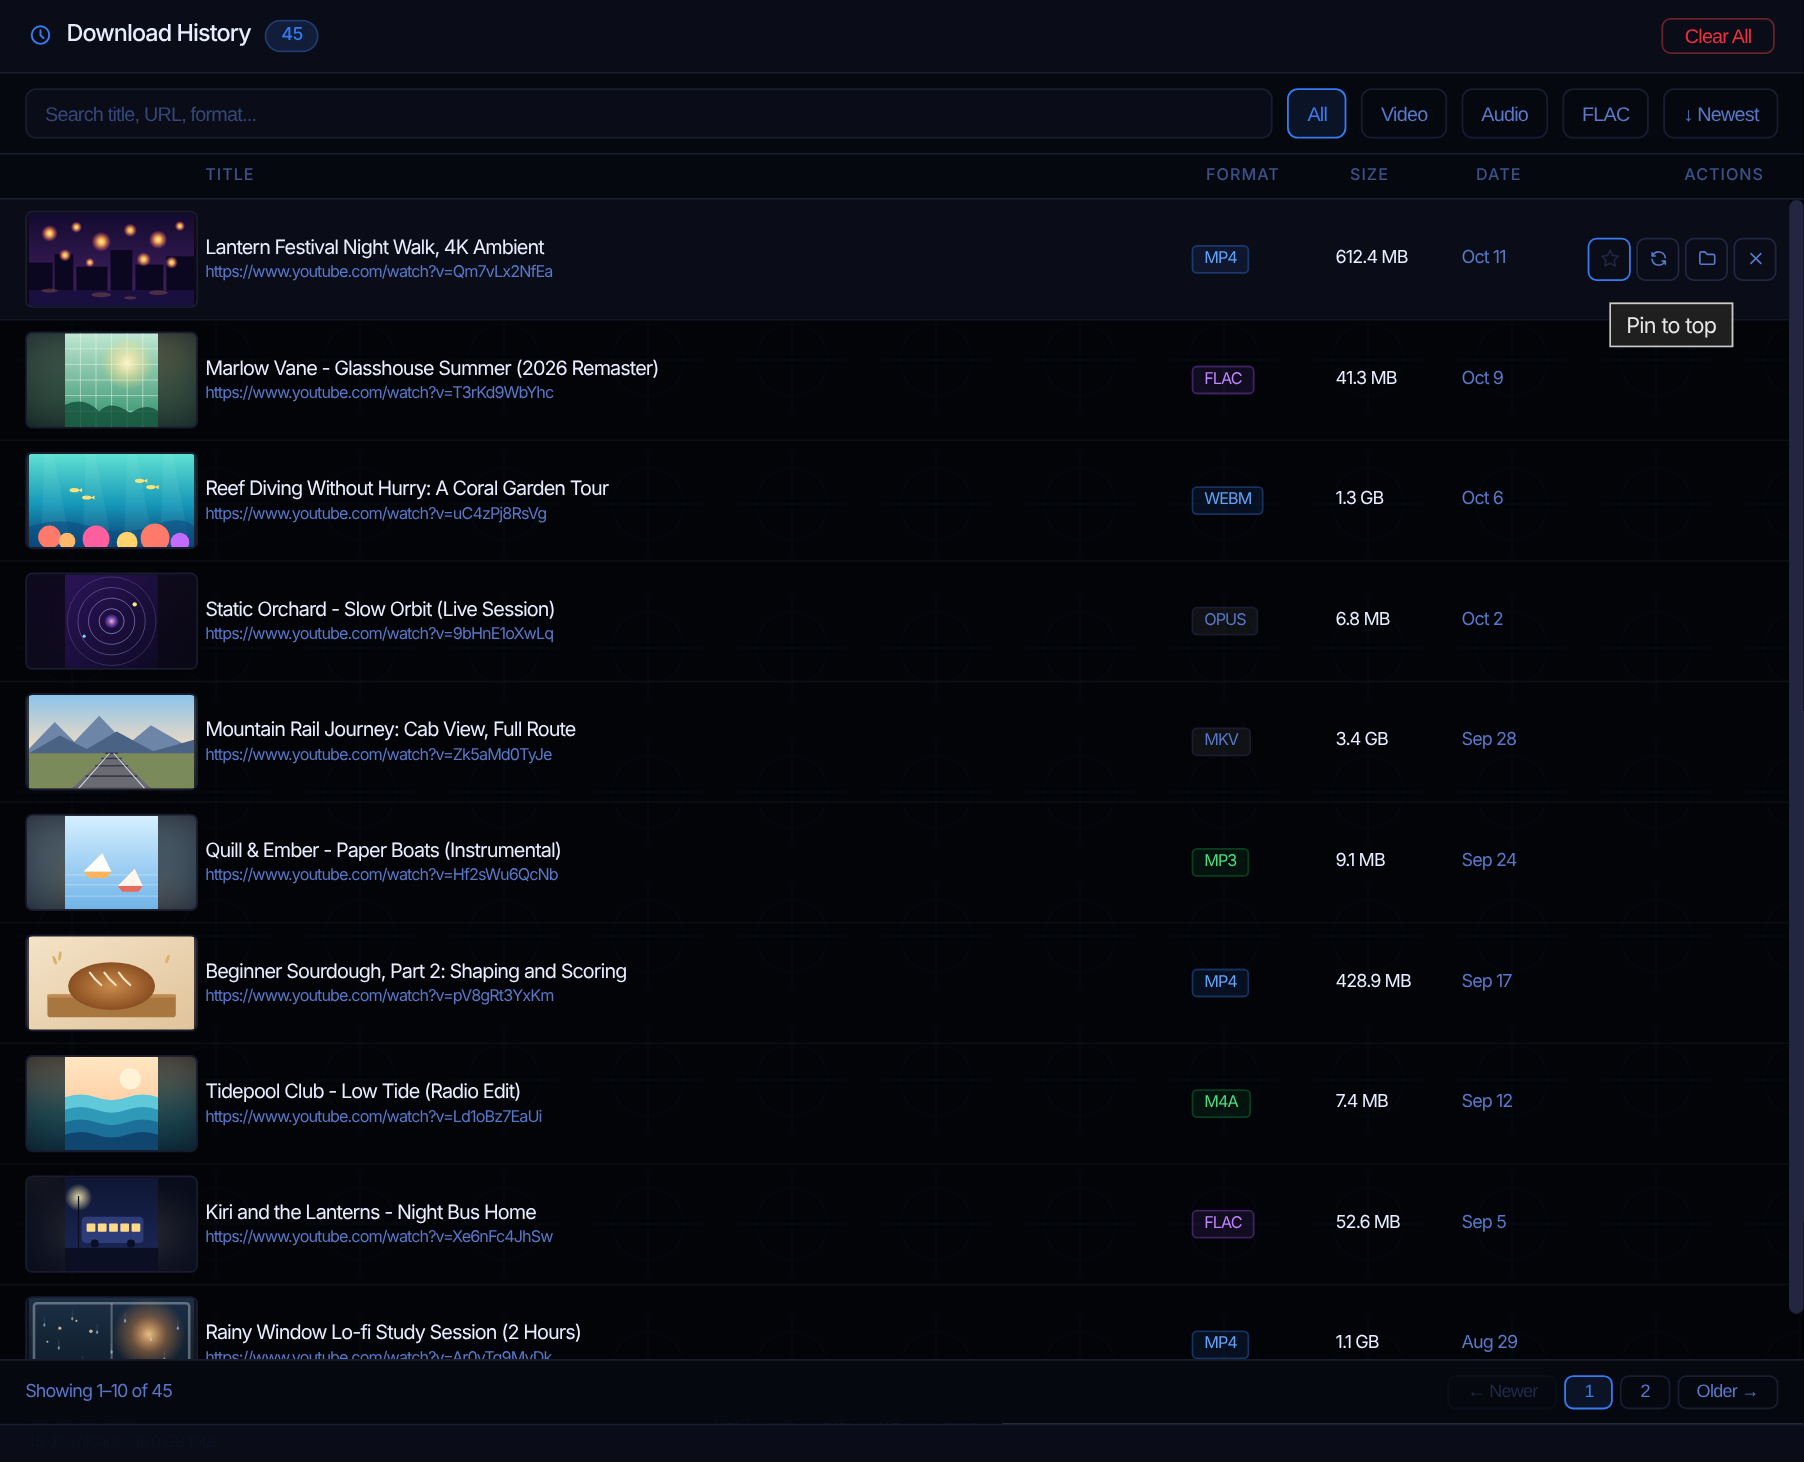
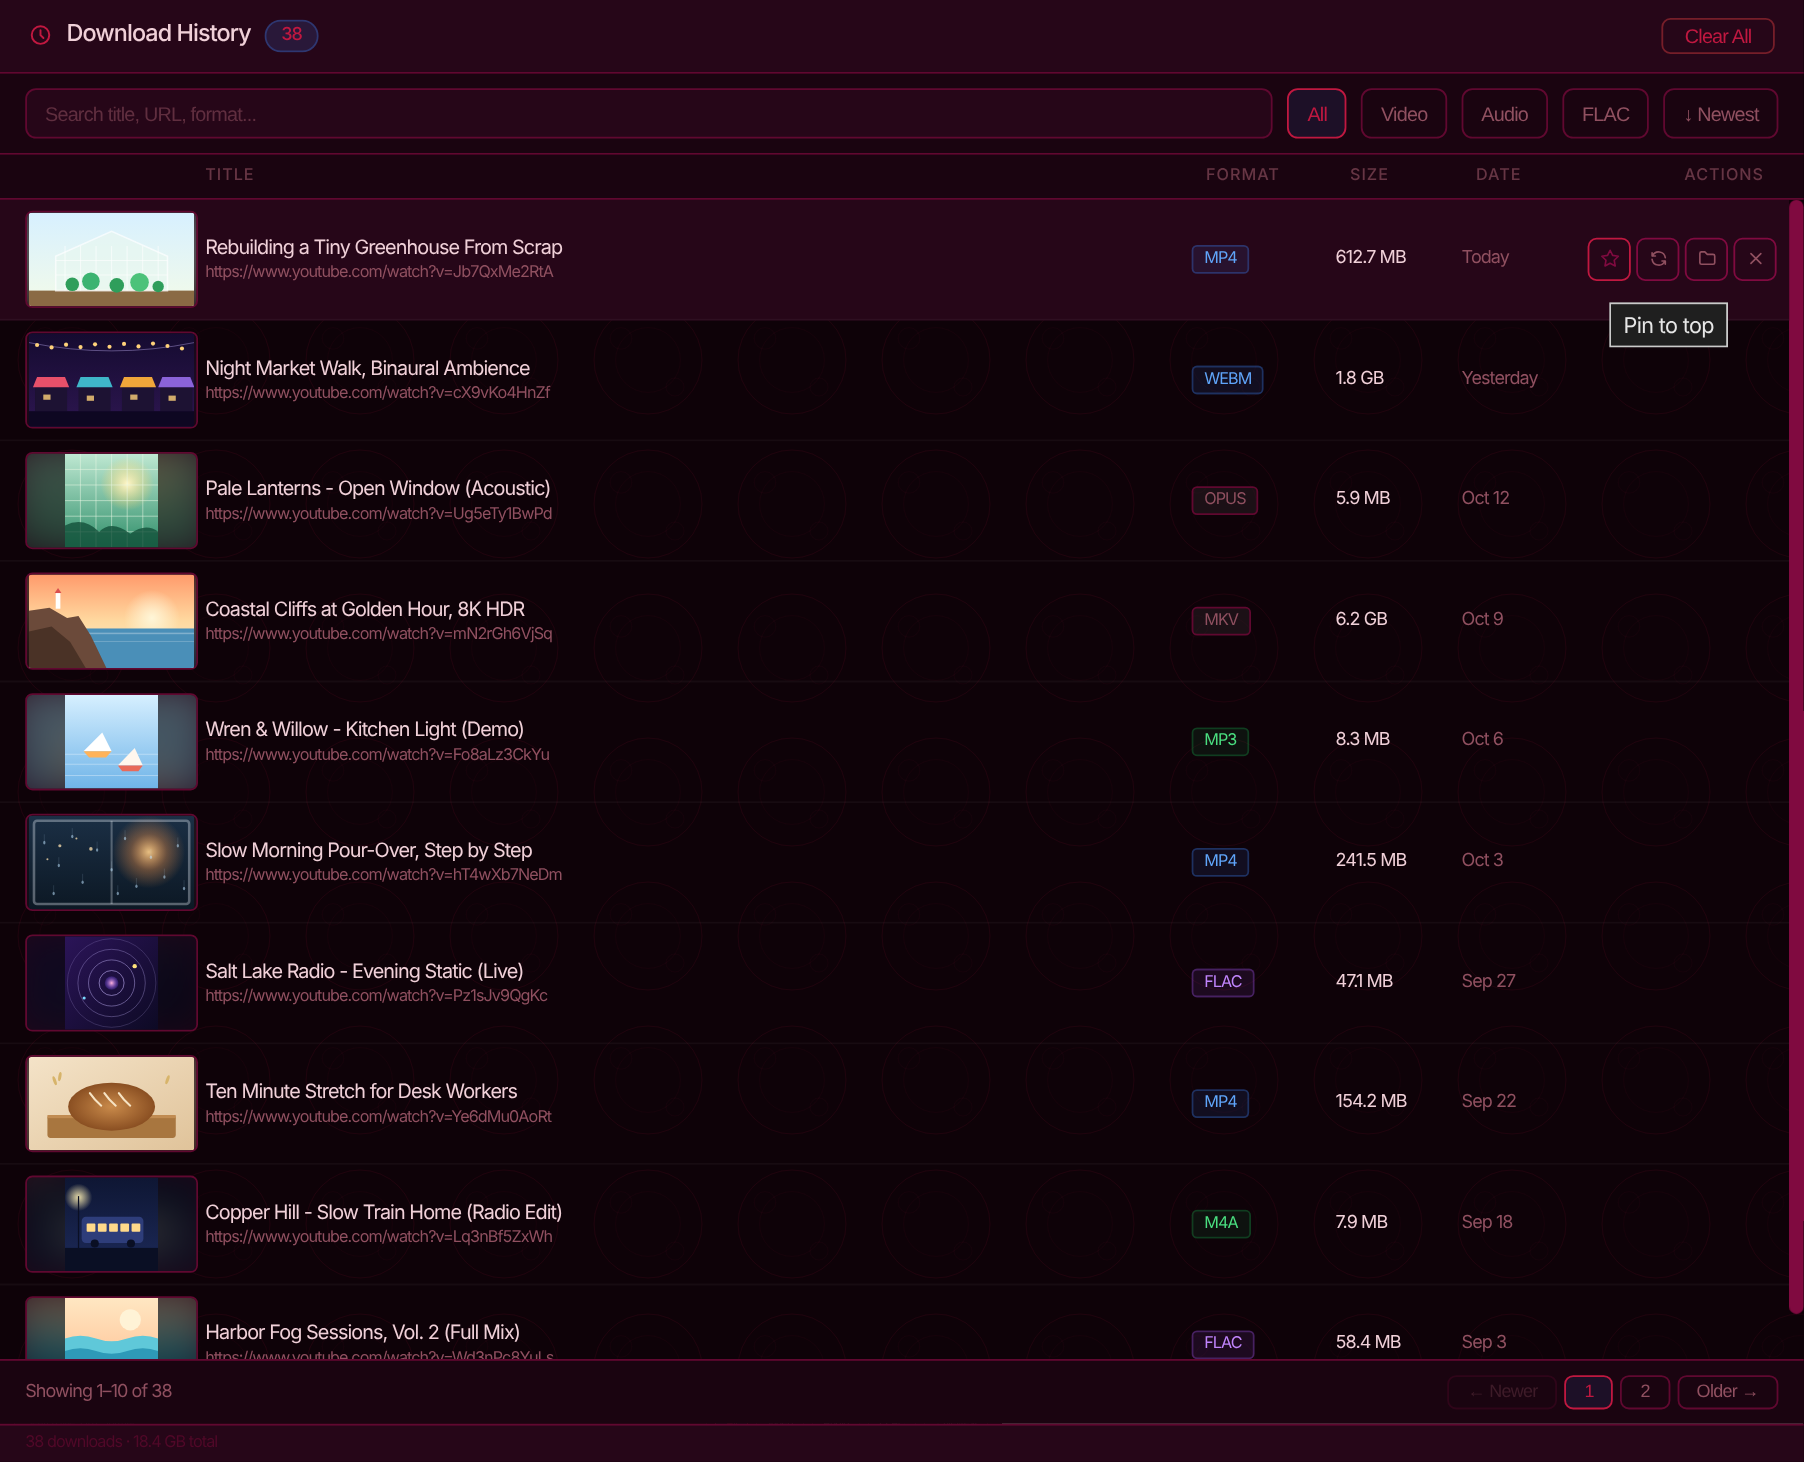
docs: README screenshots updated for v1.4.12
Seven new pictures of v1.4.12 in the same layout: main UI, advanced panel,
all themes, subscriptions, the advanced panel with the plugins list and the
download history, each in a different theme (Coral Reef Light, Vaporwave,
Amiga, macOS Big Sur, Aurora, Merlot). The splash screen is unchanged. The
caption names the release and the theme labels follow the pictures.

diff --git a/README.md b/README.md
@@ -79,7 +79,7 @@ A side by side look at one well known alternative, using details you can check y
 
 ## 🖼 Screenshots
 
-> 📸 *Screenshots of v1.4.11, LAST CALL: THE RETURN OF ELECTRON. The UI is identical across Windows, macOS, and Linux.*
+> 📸 *Screenshots of v1.4.12, ELECTRON STRIKES BACK. The UI is identical across Windows, macOS, and Linux.*
 
 <table>
   <tr>
@@ -88,12 +88,12 @@ A side by side look at one well known alternative, using details you can check y
       <br/><sub><b>Splash Screen</b></sub>
     </td>
     <td align="center" width="33%">
-      <a href="screenshots/02-main-ui.png"><img src="screenshots/02-main-ui.png" width="260" alt="Main UI, Bauhaus theme"/></a>
-      <br/><sub><b>Main UI</b> (Bauhaus theme)</sub>
+      <a href="screenshots/02-main-ui.png"><img src="screenshots/02-main-ui.png" width="260" alt="Main UI, Coral Reef Light theme"/></a>
+      <br/><sub><b>Main UI</b> (Coral Reef Light theme)</sub>
     </td>
     <td align="center" width="33%">
-      <a href="screenshots/03-advanced-panel.png"><img src="screenshots/03-advanced-panel.png" width="260" alt="Advanced Panel, La Parguera theme"/></a>
-      <br/><sub><b>Advanced Panel</b> (La Parguera theme)</sub>
+      <a href="screenshots/03-advanced-panel.png"><img src="screenshots/03-advanced-panel.png" width="260" alt="Advanced Panel, Vaporwave theme"/></a>
+      <br/><sub><b>Advanced Panel</b> (Vaporwave theme)</sub>
     </td>
   </tr>
 </table>
@@ -101,12 +101,12 @@ A side by side look at one well known alternative, using details you can check y
 <table>
   <tr>
     <td align="center" width="50%">
-      <a href="screenshots/04-all-themes.png"><img src="screenshots/04-all-themes.png" width="400" alt="All Themes, N64 theme"/></a>
-      <br/><sub><b>All Themes</b> (N64 theme)</sub>
+      <a href="screenshots/04-all-themes.png"><img src="screenshots/04-all-themes.png" width="400" alt="All Themes, Amiga theme"/></a>
+      <br/><sub><b>All Themes</b> (Amiga theme)</sub>
     </td>
     <td align="center" width="50%">
-      <a href="screenshots/05-subscriptions.png"><img src="screenshots/05-subscriptions.png" width="400" alt="Subscriptions, Windows 11 theme"/></a>
-      <br/><sub><b>Subscriptions</b> (Windows 11 theme)</sub>
+      <a href="screenshots/05-subscriptions.png"><img src="screenshots/05-subscriptions.png" width="400" alt="Subscriptions, Big Sur theme"/></a>
+      <br/><sub><b>Subscriptions</b> (Big Sur theme)</sub>
     </td>
   </tr>
 </table>
@@ -114,12 +114,12 @@ A side by side look at one well known alternative, using details you can check y
 <table>
   <tr>
     <td align="center" width="50%">
-      <a href="screenshots/06-advanced-plugins.png"><img src="screenshots/06-advanced-plugins.png" width="324" alt="Advanced Panel with the plugins list, Midnight theme"/></a>
-      <br/><sub><b>Advanced Panel, Plugins</b> (Midnight theme)</sub>
+      <a href="screenshots/06-advanced-plugins.png"><img src="screenshots/06-advanced-plugins.png" width="324" alt="Advanced Panel with the plugins list, Aurora theme"/></a>
+      <br/><sub><b>Advanced Panel, Plugins</b> (Aurora theme)</sub>
     </td>
     <td align="center" width="50%">
-      <a href="screenshots/07-download-history.png"><img src="screenshots/07-download-history.png" width="400" alt="Download History, Kali Linux theme"/></a>
-      <br/><sub><b>Download History</b> (Kali Linux theme)</sub>
+      <a href="screenshots/07-download-history.png"><img src="screenshots/07-download-history.png" width="400" alt="Download History, Merlot theme"/></a>
+      <br/><sub><b>Download History</b> (Merlot theme)</sub>
     </td>
   </tr>
 </table>
